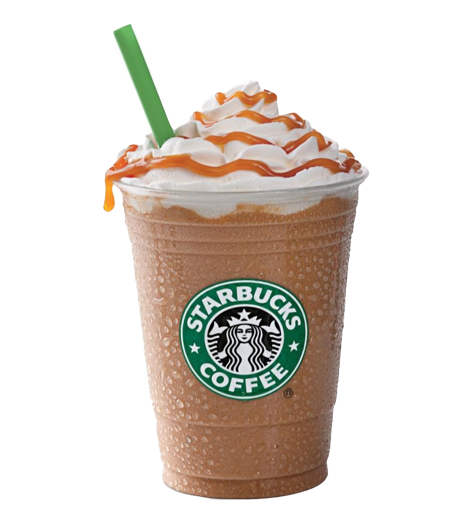
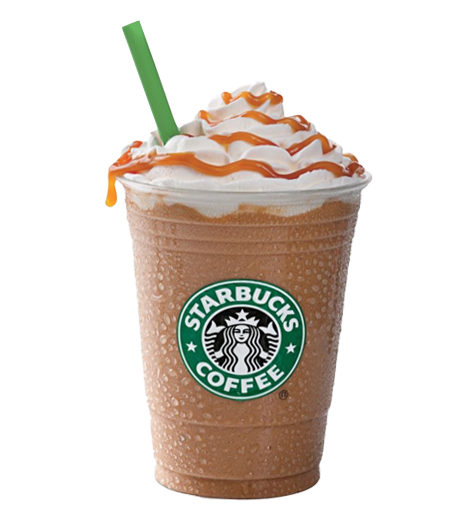
fix: products images

Changed region(s): [[0.2072, 0.0304, 0.7992, 0.9412]]

diff --git a/index.html b/index.html
@@ -57,39 +57,39 @@
                 <div class="main__content__carousel" id="main__content__carousel">
                     <div class="card">
                         <div class="card-image">
-                            <img src="./img/product1.png" alt="">
+                            <img src="./img/product1.png" alt="product1">
                         </div>
                         <div class="card-body">
-                            <h1>Midnight Mint Mocha Frappuccino</h1>
+                            <h1>Midnight Mocha Frapp</h1>
                         </div>
                     </div>
                     <div class="card">                        
                         <div class="card-image">
-                            <img src="./img/product1.png" alt="">
+                            <img src="./img/product2.png" alt="product2">
                         </div>
                         <div class="card-body">
-                            <h1>Midnight Mint Mocha Frappuccino</h1>
+                            <h1>Mint Mocha Frappuccino</h1>
                         </div>
                     </div>
                     <div class="card">                        
                         <div class="card-image">
-                            <img src="./img/product1.png" alt="">
+                            <img src="./img/product3.png" alt="product3">
                         </div>
                         <div class="card-body">
-                            <h1>Midnight Mint Mocha Frappuccino</h1>
+                            <h1>Mocha Frappuccino</h1>
                         </div>
                     </div>
                     <div class="card">                        
                         <div class="card-image">
-                            <img src="./img/product1.png" alt="">
+                            <img src="./img/product4.png" alt="product4">
                         </div>
                         <div class="card-body">
-                            <h1>Midnight Mint Mocha Frappuccino</h1>
+                            <h1>Midnight Frappuccino</h1>
                         </div>
                     </div>
                     <div class="card">                        
                         <div class="card-image">
-                            <img src="./img/product1.png" alt="">
+                            <img src="./img/product5.png" alt="product5">
                         </div>
                         <div class="card-body">
                             <h1>Midnight Mint Mocha Frappuccino</h1>
